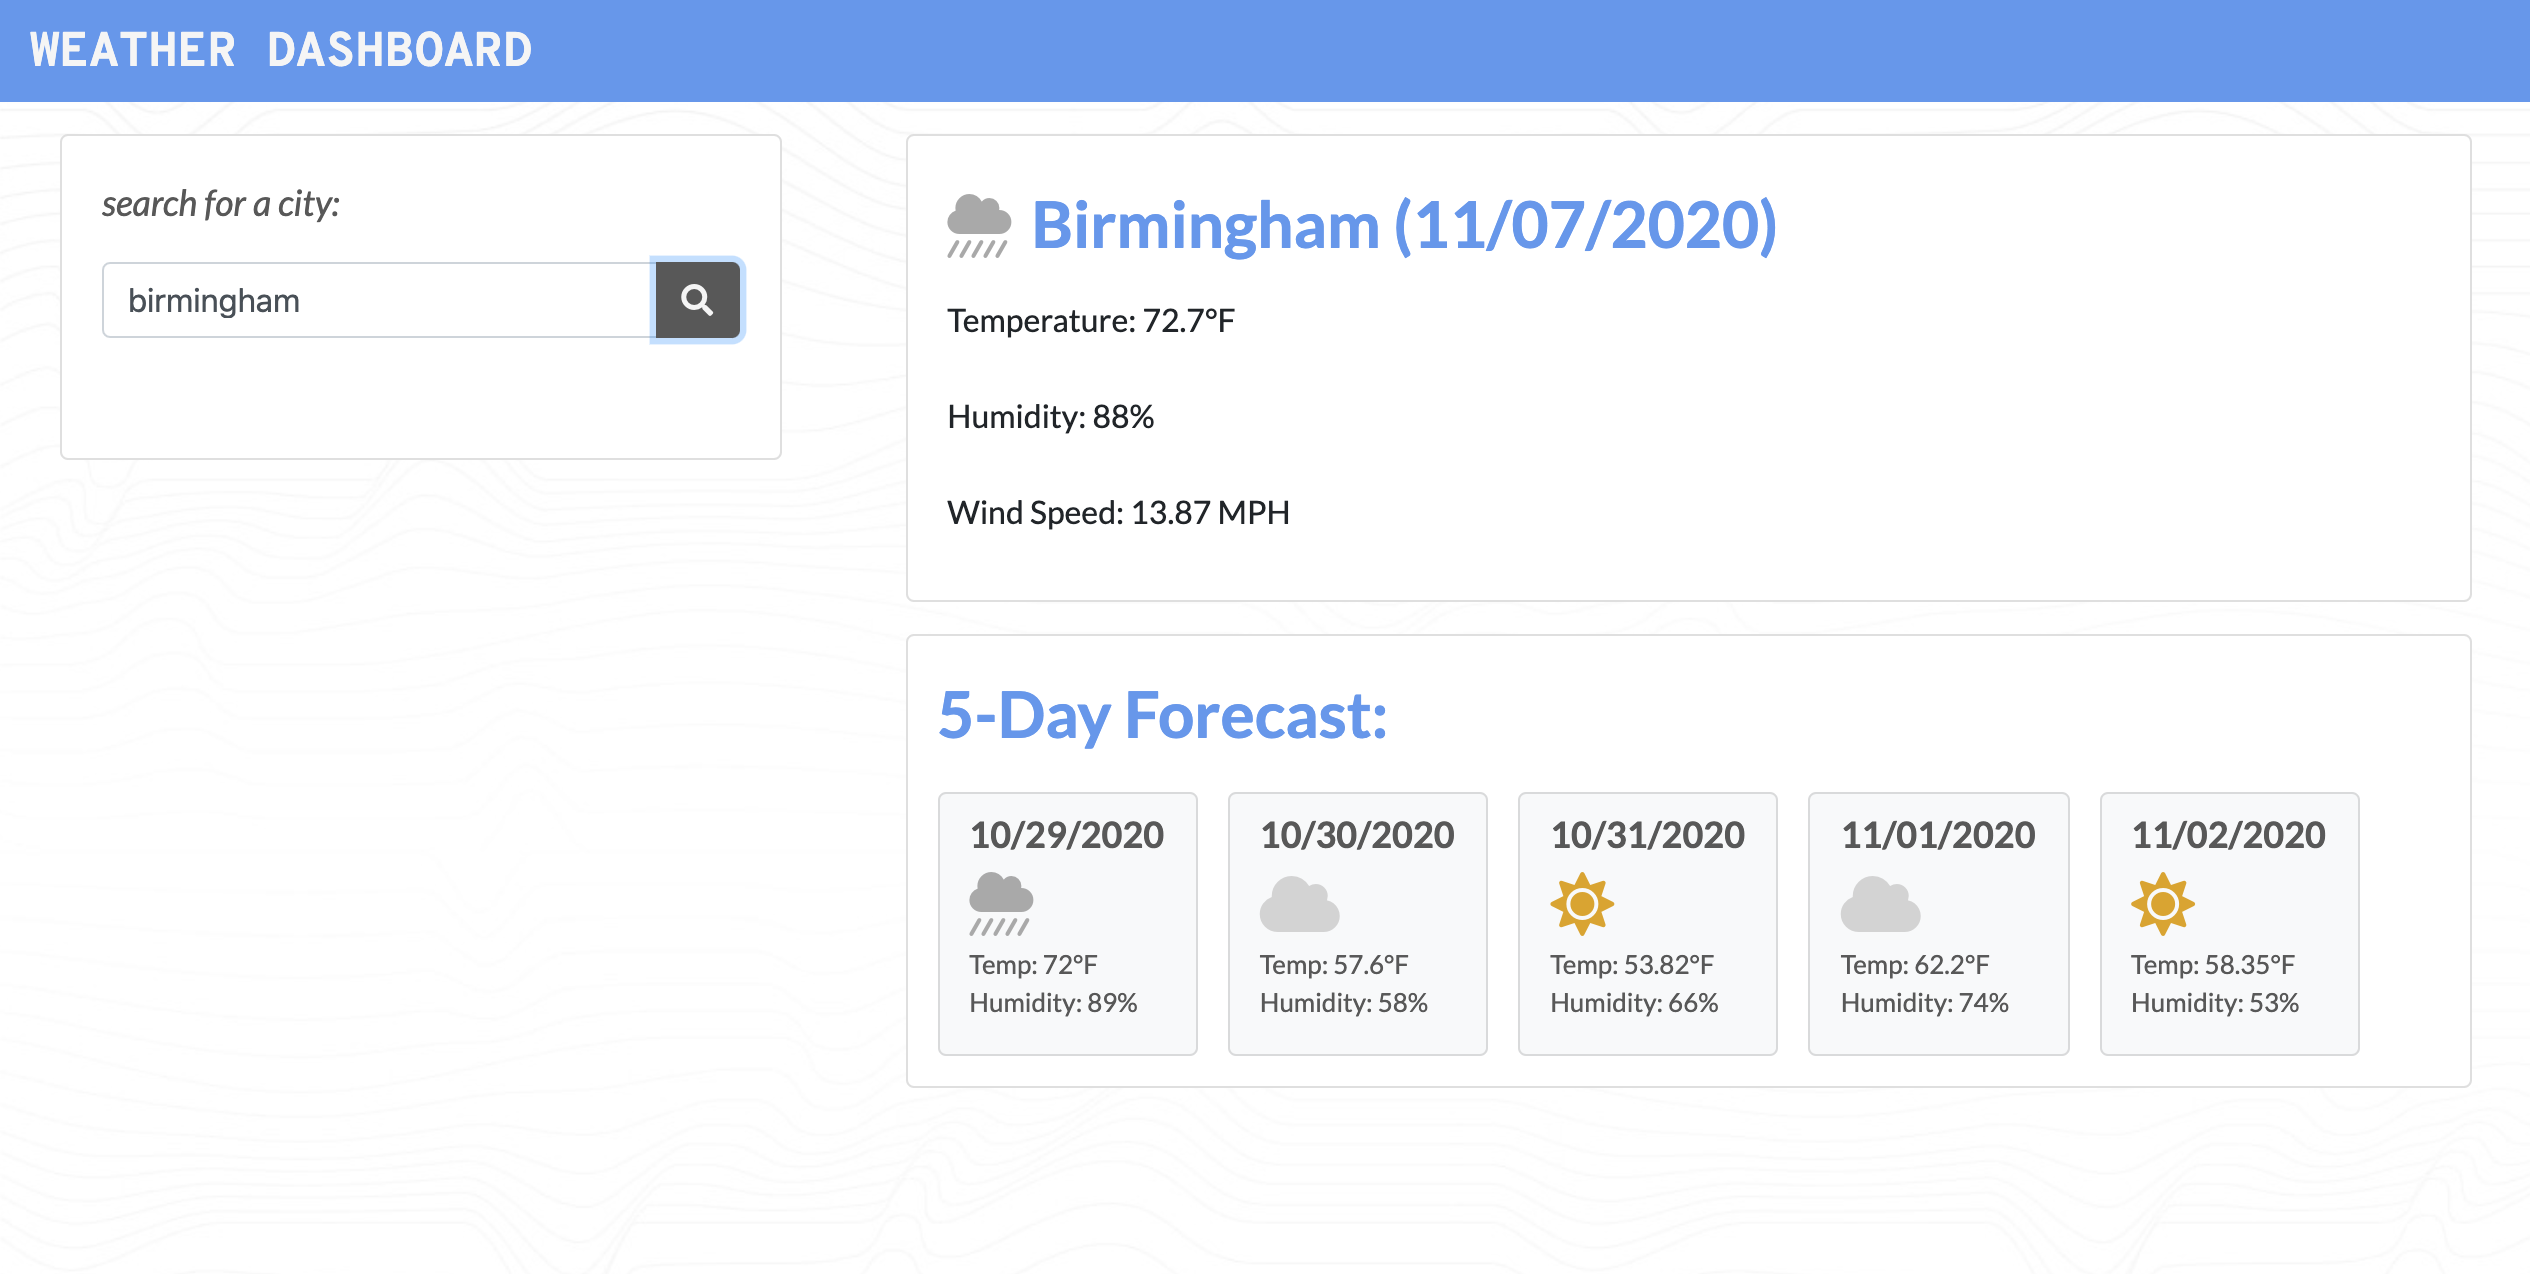
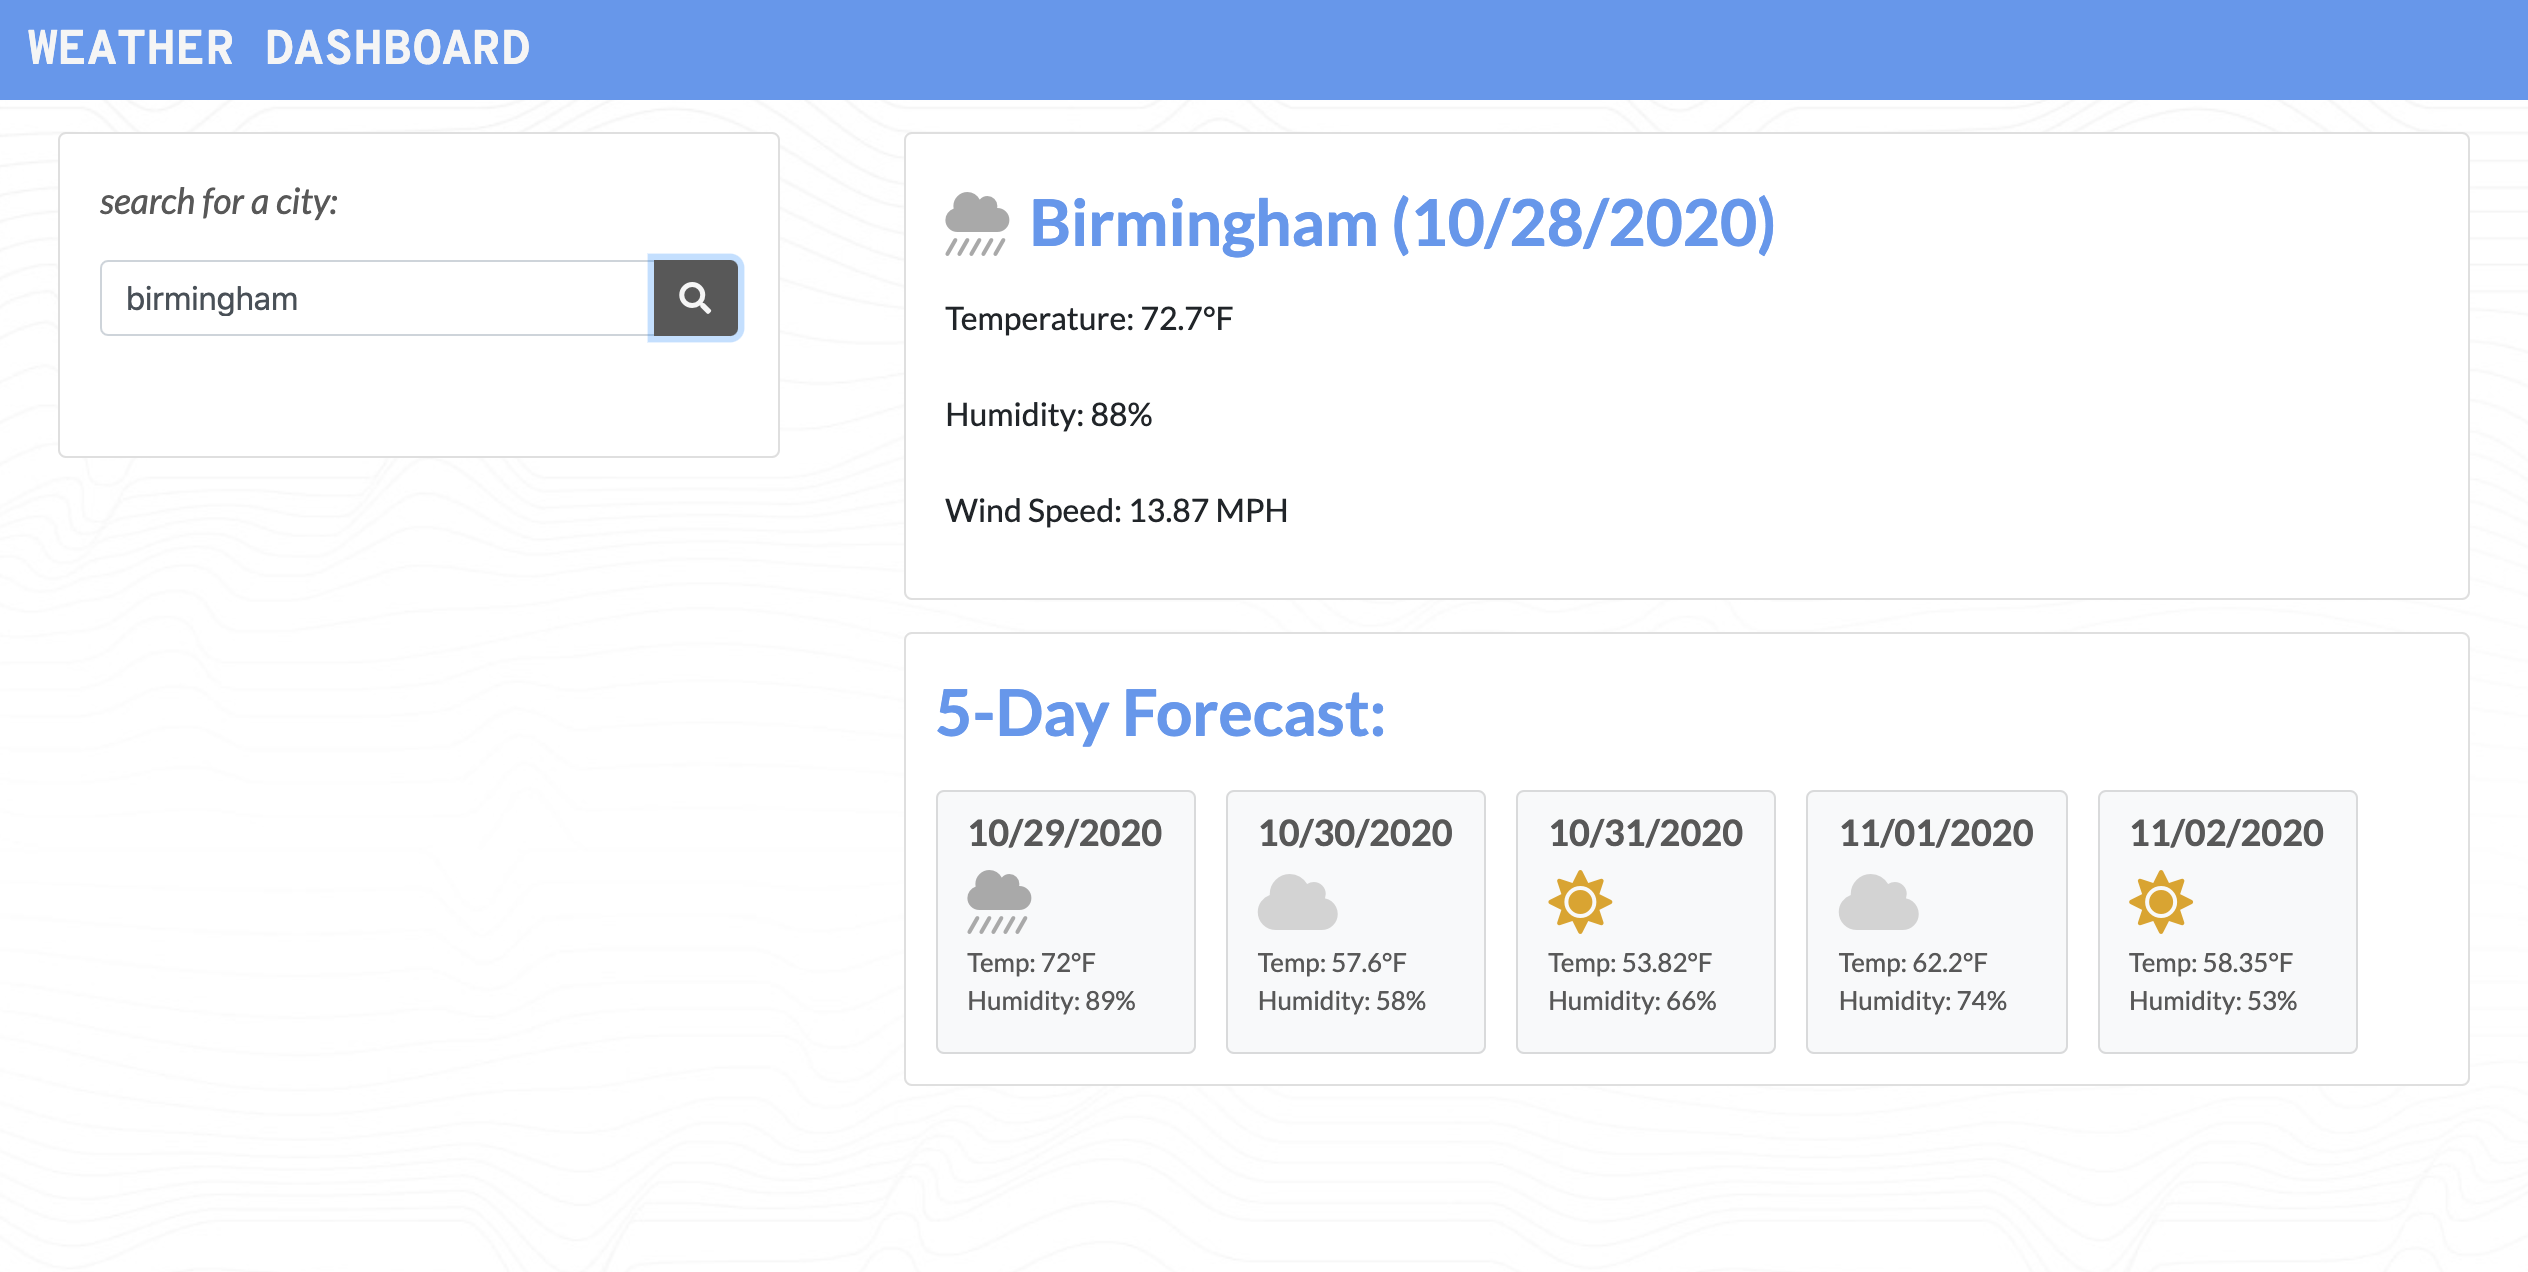
Current date issue resolved

diff --git a/script.js b/script.js
@@ -1,9 +1,9 @@
-var date = moment().add(10, 'days').calendar();
-var card1Date = moment().add(1, 'day').format('MM/DD/YYYY');
-var card2Date = moment().add(2, 'day').format('MM/DD/YYYY');
-var card3Date = moment().add(3, 'day').format('MM/DD/YYYY');
-var card4Date = moment().add(4, 'day').format('MM/DD/YYYY');
-var card5Date = moment().add(5, 'day').format('MM/DD/YYYY');
+var date = moment().add(0, 'days').format('MM/DD/YYYY');
+var card1Date = moment().add(1, 'days').format('MM/DD/YYYY');
+var card2Date = moment().add(2, 'days').format('MM/DD/YYYY');
+var card3Date = moment().add(3, 'days').format('MM/DD/YYYY');
+var card4Date = moment().add(4, 'days').format('MM/DD/YYYY');
+var card5Date = moment().add(5, 'days').format('MM/DD/YYYY');
 
 // $(document).ready(function() {
 // var storeSearchedCity = [];

diff --git a/README.md b/README.md
@@ -18,4 +18,4 @@ I was tasked with creating a weather dashboard that  runs in the browser and fea
 
 ## Screenshots
 
-![dashboard](./)
+![dashboard](./images/weather-demo.png)
